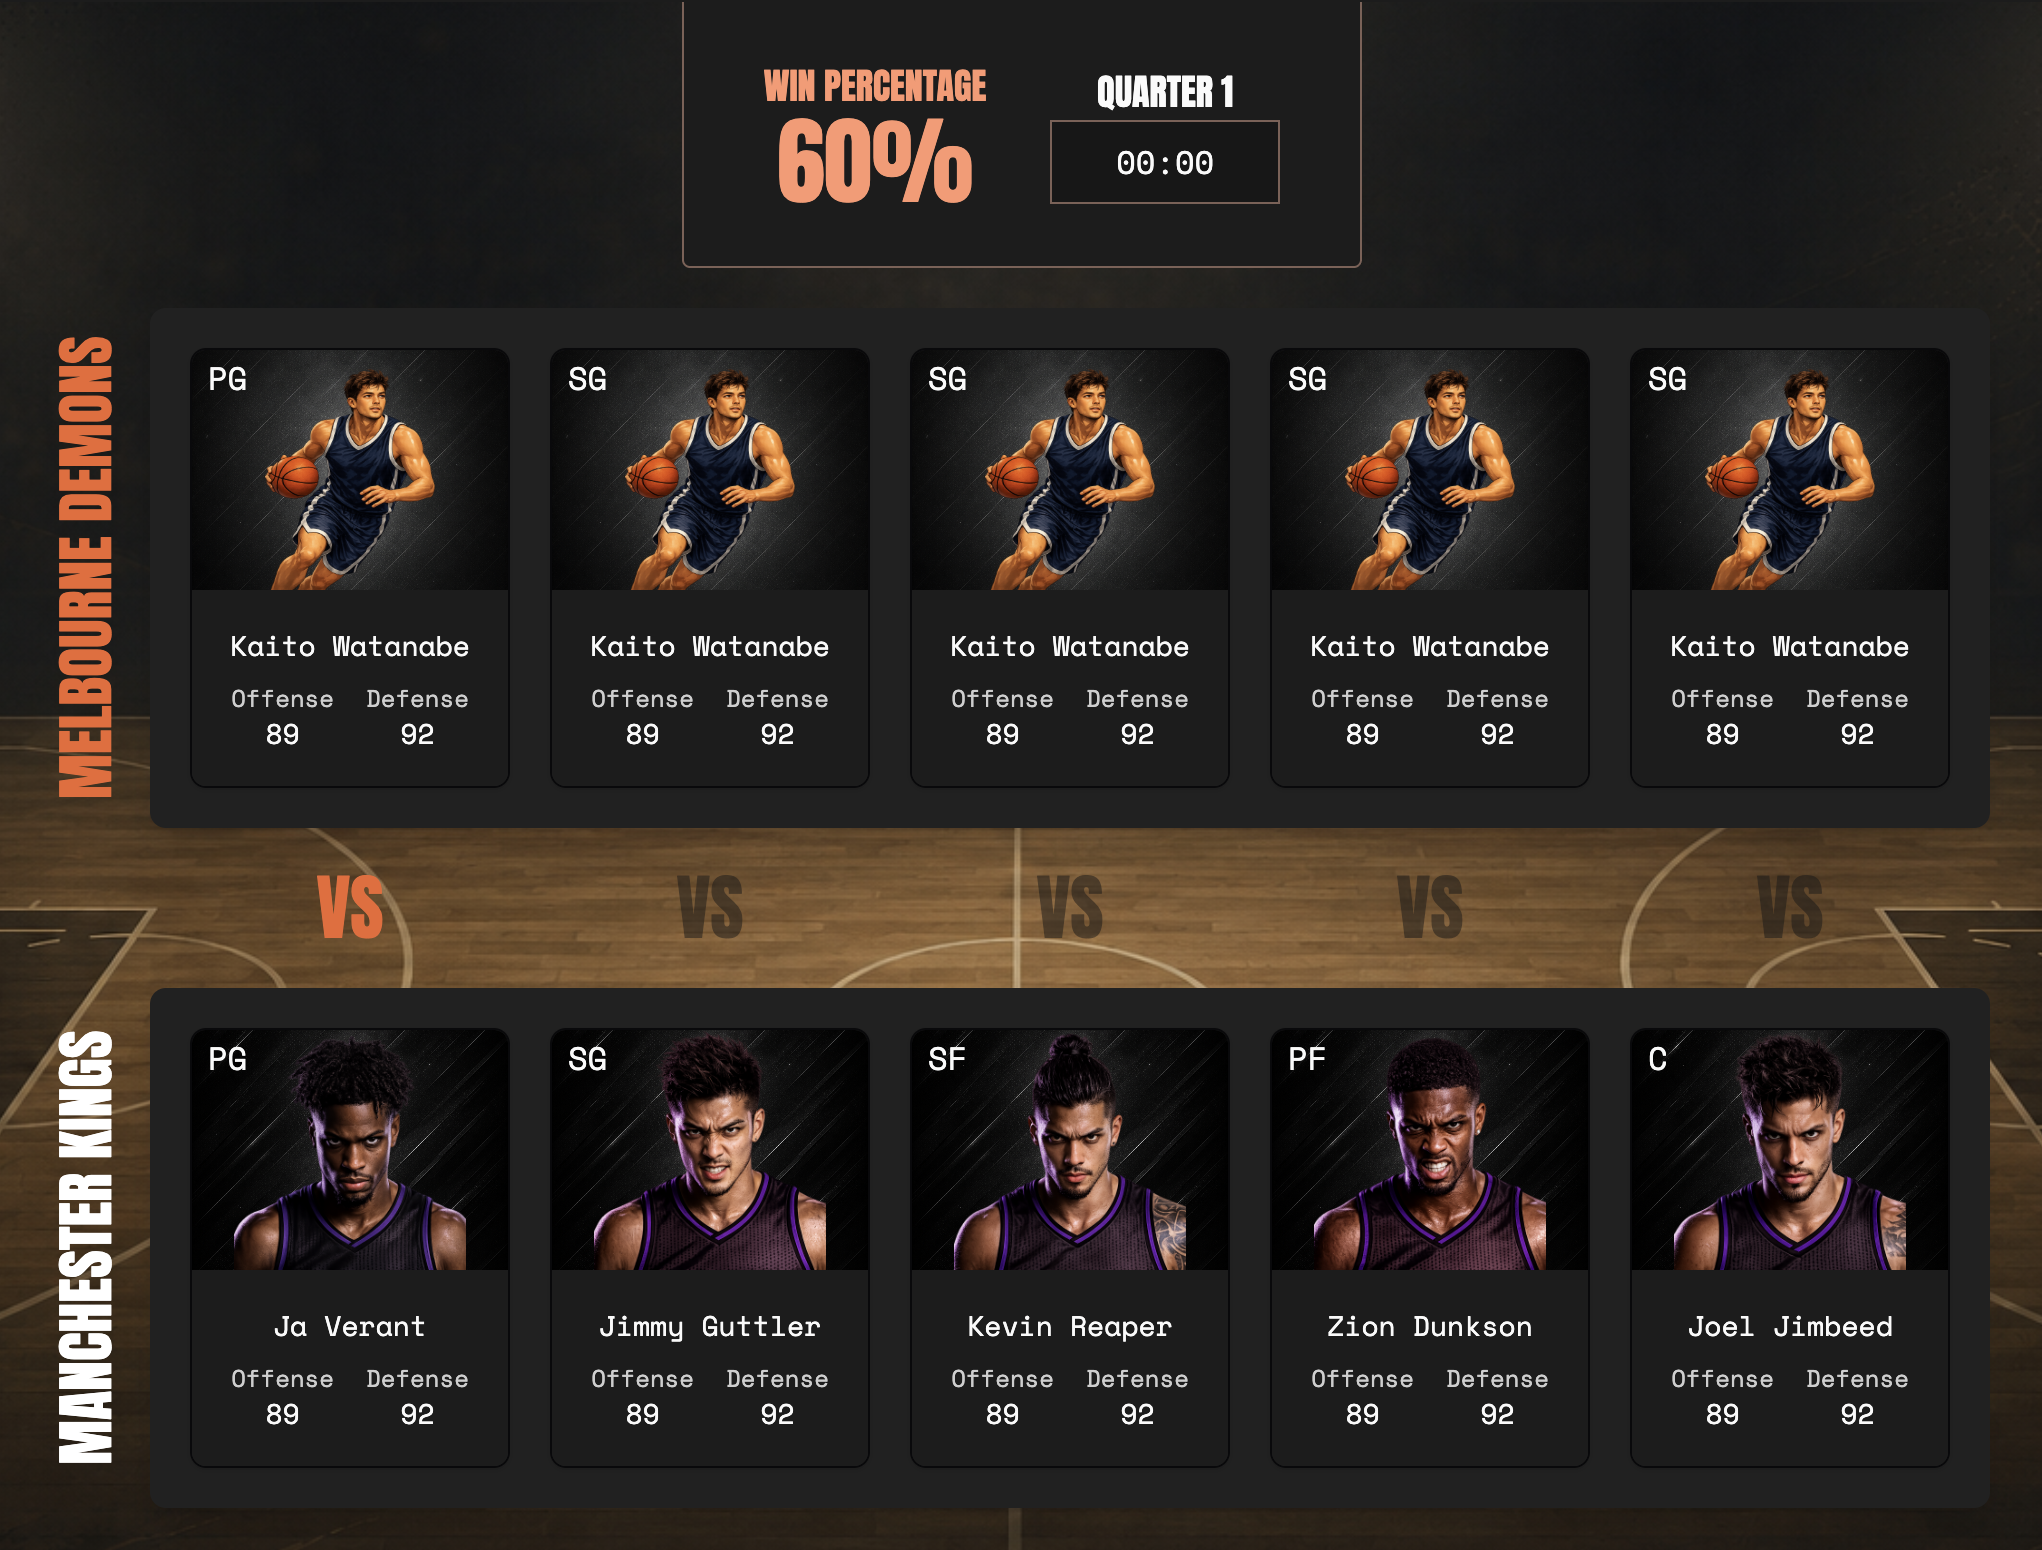
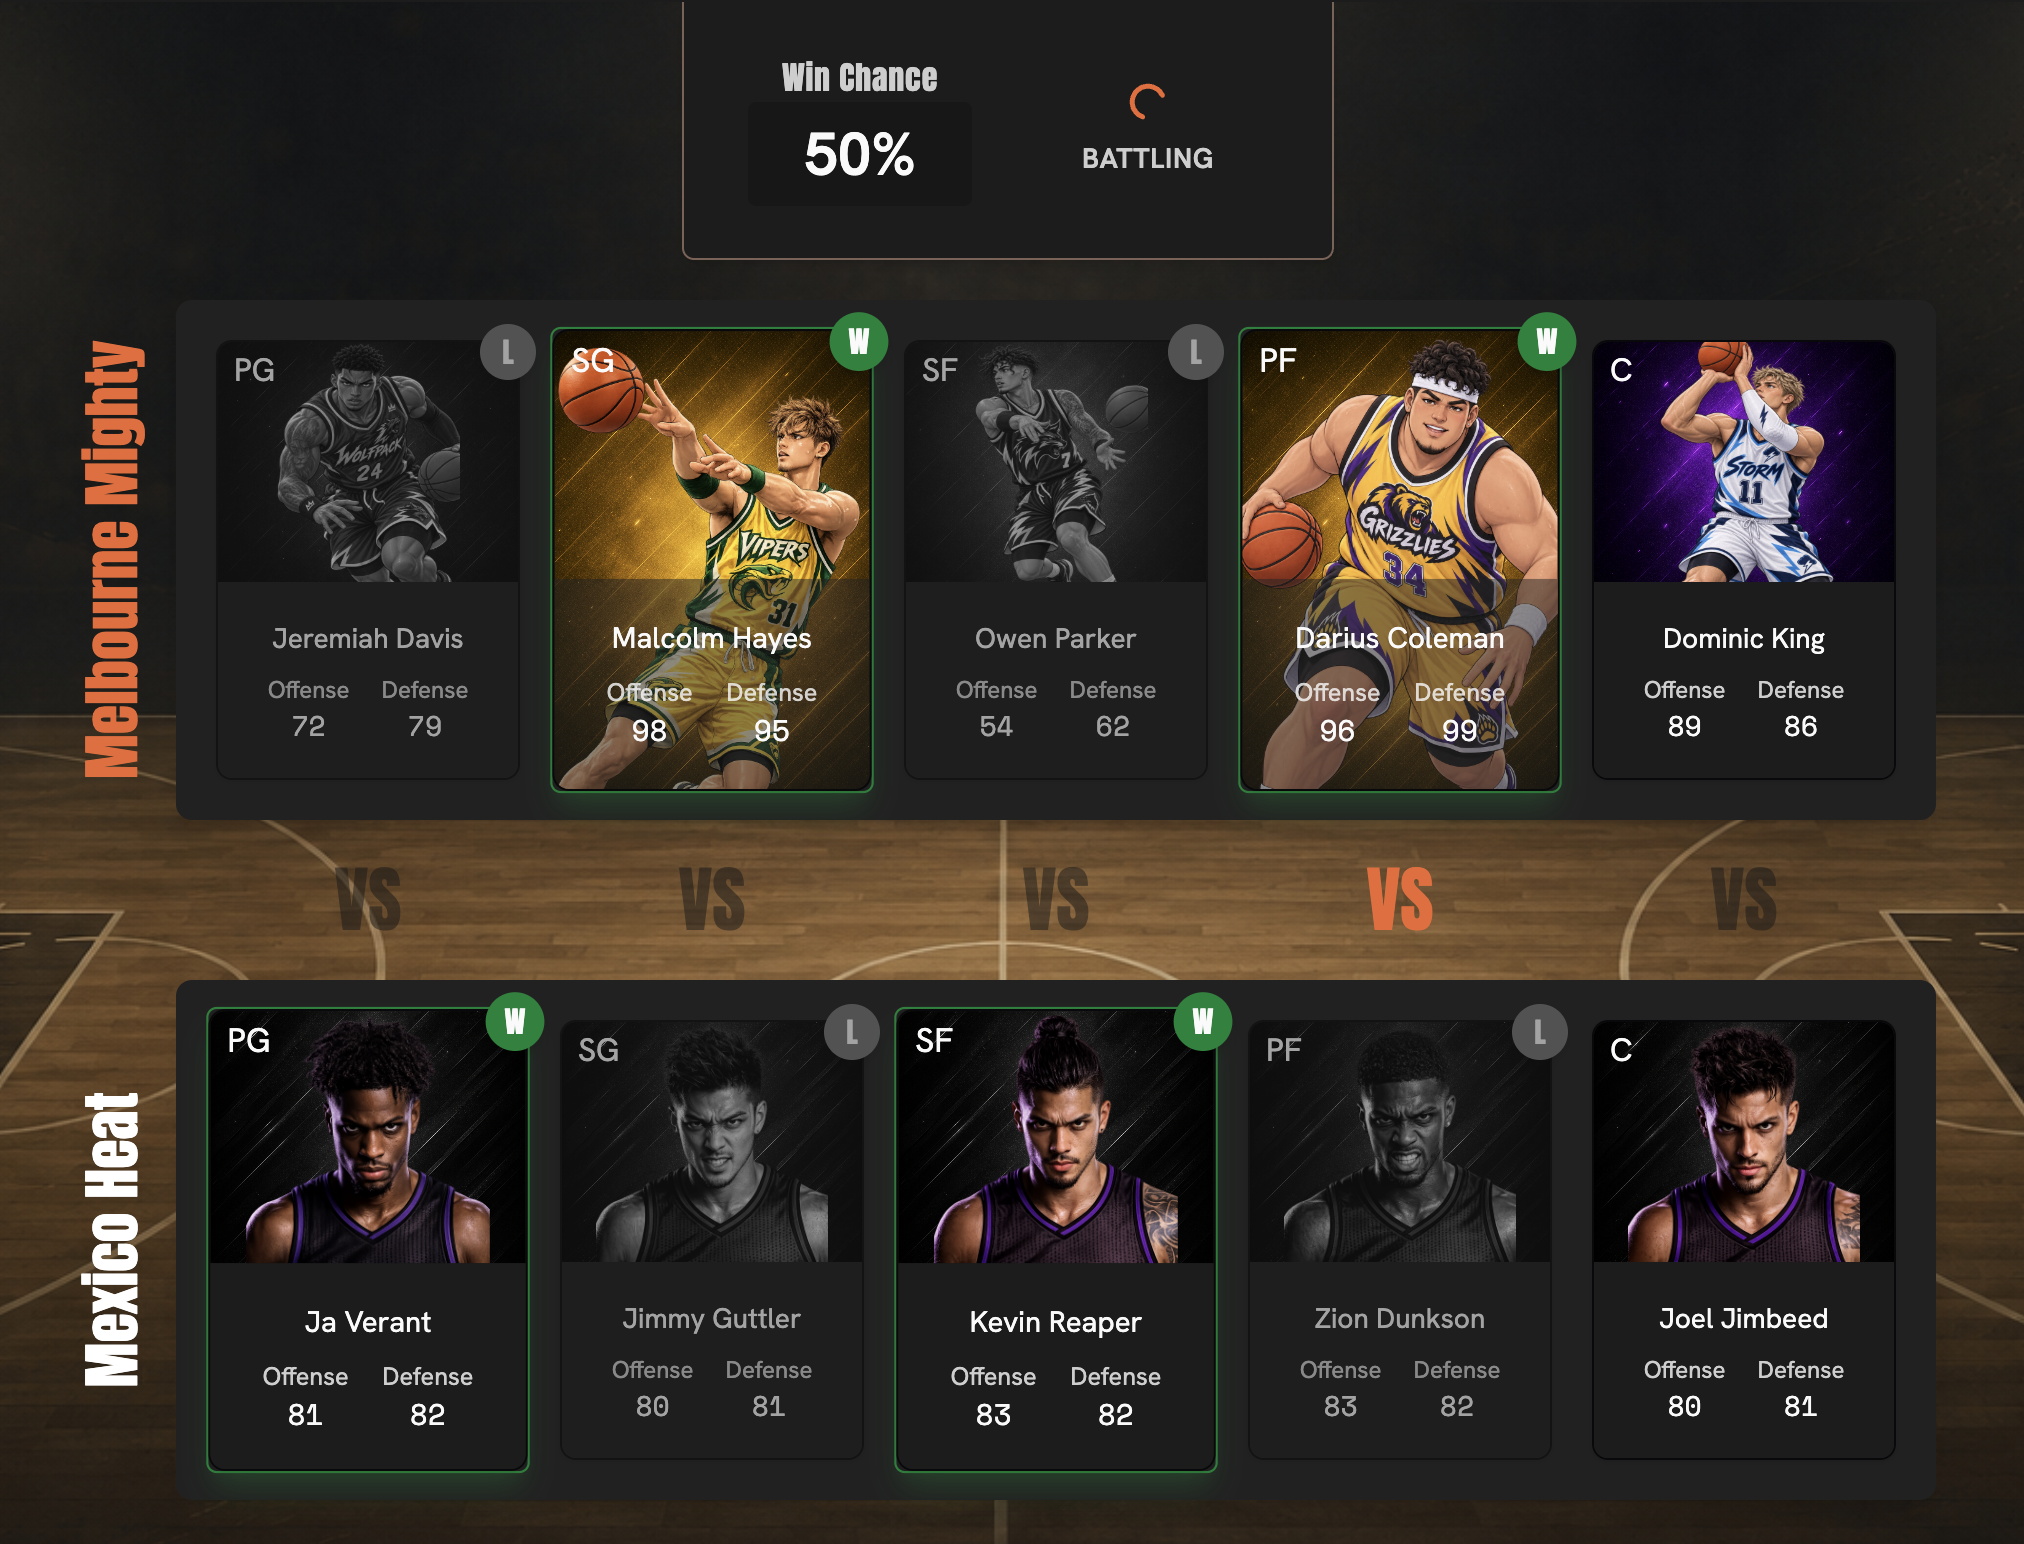
add temporary admin page + fix player card sizing + re-position filter buttons

Changed region(s): [[0.0, 0.1865, 1.0, 0.9637], [0.3735, 0.0311, 0.498, 0.1554], [0.5292, 0.0311, 0.6225, 0.1244]]

diff --git a/client/src/pages/admin/AddPlayerPage.tsx b/client/src/pages/admin/AddPlayerPage.tsx
@@ -1,0 +1,95 @@
+import { useState } from "react";
+import Button from "../../components/common/button/Button";
+
+function AddPlayerPage() {
+  const [isSubmitting, setIsSubmitting] = useState(false);
+
+  const [formData, setFormData] = useState({
+    fullName: "",
+    position: "",
+    rarity: "",
+    offensiveRating: "",
+    defensiveRating: "",
+    overallRating: "",
+    image: "",
+    errors: {},
+  });
+
+  function handleChange(e) {
+    setFormData({ ...formData, [e.target.name]: e.target.value });
+  }
+
+  function handleSubmit(e) {
+    e.preventDefault();
+    setIsSubmitting(true);
+  }
+
+  // function resetForm() {
+  //   setFormData({
+  //     fullName: user.name || "",
+  //     teamName: user.teamName || "",
+  //     email: user.email || "",
+  //   });
+  // }
+
+  return (
+    <div>
+      <form onSubmit={handleSubmit} className="flex flex-col gap-4">
+        <div className="flex flex-col gap-1">
+          <p className="font-semibold">Full Name</p>
+          <input
+            name="fullName"
+            value={formData.fullName}
+            onChange={handleChange}
+            className="input focus-within:outline-none focus-within:ring-0"
+          />
+        </div>
+
+        <div className="flex flex-col gap-1">
+          <p className="font-semibold">Team Name</p>
+          <input
+            name="teamName"
+            value={formData.teamName}
+            onChange={handleChange}
+            className="input focus-within:outline-none focus-within:ring-0"
+          />
+        </div>
+
+        <div className="flex flex-col gap-1">
+          <p className="font-semibold">E-mail</p>
+          <input
+            name="email"
+            type="email"
+            value={formData.email}
+            onChange={handleChange}
+            className="input focus-within:outline-none focus-within:ring-0"
+          />
+        </div>
+
+        <div className="flex gap-3">
+          <Button
+            bgColor="primary"
+            textColor="black"
+            size="small"
+            type="submit"
+            className="p-4"
+          >
+            Save
+          </Button>
+
+          <Button
+            className="bg-neutral-700 p-4"
+            size="small"
+            onClick={() => {
+              // resetForm();
+              setIsSubmitting(false);
+            }}
+          >
+            Cancel
+          </Button>
+        </div>
+      </form>
+    </div>
+  );
+}
+export default AddPlayerPage;

diff --git a/client/src/components/common/playerCard/RegularCardXS.tsx b/client/src/components/common/playerCard/RegularCardXS.tsx
@@ -163,14 +163,14 @@ function RegularCardXS({
     <div className="w-30 h-40 lg:w-38 lg:h-55 font-base border border-border-base rounded-lg shadow-sm overflow-hidden">
       {/* top half */}
       <div
-        className="relative h-20 lg:h-30 bg-base-300 bg-cover bg-center"
+        className="relative h-22 lg:h-33 bg-base-300 bg-cover bg-center"
         style={{
           backgroundImage: `url(${isEnemy ? playerRarity : playerRarityConversion})`,
         }}
       >
         <img
           src={isEnemy ? playerImage : playerImageConversion}
-          className={`${isEnemy && "w-20! lg:w-29!"} w-15 h-20 lg:w-23 lg:h-30 mx-auto`}
+          className={`${isEnemy && "w-22! lg:w-30!"} w-16 h-22 lg:w-23 lg:h-33 mx-auto`}
         />
         <p className="absolute top-1 lg:top-0.5 left-2 text-xs lg:text-base">
           {playerPosition}
@@ -178,7 +178,7 @@ function RegularCardXS({
       </div>
 
       {/* bottom half */}
-      <div className="flex flex-col items-center justify-center gap-1 lg:gap-2 h-20 lg:h-25 bg-base-200 text-center">
+      <div className="flex flex-col items-center justify-center gap-1 lg:gap-2 h-18 lg:h-22 bg-base-200 text-center">
         <p className="text-xs lg:text-sm">{playerName}</p>
 
         <div className="flex gap-3 lg:gap-4">

diff --git a/client/src/components/common/pack/Pack.tsx b/client/src/components/common/pack/Pack.tsx
@@ -13,7 +13,7 @@ type Props = {
 function Pack({ packBg, title, content, chances, price, onBuy }: Props) {
   return (
     <div
-      className="flex flex-col justify-between gap-8 bg-neutral-950 rounded-lg shadow-md text-neutral-100 py-7 px-8 sm:px-10 overflow-hidden bg-cover bg-center w-43 sm:w-58 h-80"
+      className="flex flex-col justify-between gap-8 bg-neutral-950 rounded-lg shadow-md text-neutral-100 py-7 px-5 lg:px-8 overflow-hidden bg-cover bg-center w-38 sm:w-58 h-80"
       style={{ backgroundImage: `url(${packBg})` }}
     >
       <div className="text-start">
@@ -30,7 +30,7 @@ function Pack({ packBg, title, content, chances, price, onBuy }: Props) {
         <Button
           bgColor="primary"
           textColor="black"
-          className="btn-xs sm:btn-sm"
+          className="btn-sm"
           onClick={onBuy}
         >
           <div className="flex items-center gap-1">

diff --git a/client/src/App.tsx b/client/src/App.tsx
@@ -20,6 +20,8 @@ import AccountPage from "./pages/app/AccountPage.js";
 
 import BattleLayout from "./components/layout/battle/BattleLayout";
 import BattlePage from "./pages/battle/BattlePage";
+import AdminPage from "./pages/admin/AdminPage.js";
+import AddPlayerPage from "./pages/admin/AddPlayerPage.js";
 
 function App() {
   return (
@@ -44,6 +46,9 @@ function App() {
                   <Route path="/packs" element={<PacksPage />} />
                   <Route path="/how-to-play" element={<HowToPlayPage />} />
                   <Route path="/account" element={<AccountPage />} />
+                  <Route path="/admin" element={<AdminPage />}>
+                    <Route path="add-player" element={<AddPlayerPage />} />
+                  </Route>
                 </Route>
 
                 <Route element={<BattleLayout />}>

diff --git a/client/src/components/features/packs-page/GallerySection.tsx b/client/src/components/features/packs-page/GallerySection.tsx
@@ -35,11 +35,12 @@ function GallerySection({ players, loading, errorMsg }) {
 
   return (
     <section>
-      <div className="flex justify-between items-end">
+      <div className="flex flex-col sm:flex-row justify-between items-start sm:items-end">
         <SectionHeading heading="ALL CARDS" Icon={VscCollection} />
 
-        <div className="flex flex-col sm:flex-row items-center gap-2 mb-3">
+        <div className="flex items-center gap-2 mb-3">
           <SearchForm value={search} onSearch={setSearch} />
+
           <div className="flex">
             <DropdownBtn
               buttonText="Rating"

diff --git a/client/src/components/features/home-page/CollectionSection.tsx b/client/src/components/features/home-page/CollectionSection.tsx
@@ -51,10 +51,10 @@ function CollectionSection({ user, loading, errorMsg }) {
 
   return (
     <section className="mt-6">
-      <div className="flex justify-between items-end">
+      <div className="flex flex-col sm:flex-row justify-between items-start sm:items-end">
         <SectionHeading heading="MY COLLECTION" Icon={TbCards} />
 
-        <div className="flex flex-col sm:flex-row items-center gap-2 mb-3">
+        <div className="flex items-center gap-2 mb-3">
           <SearchForm value={search} onSearch={setSearch} />
           <div className="flex">
             <DropdownBtn

diff --git a/client/src/components/common/playerCard/FullArtCardXS.tsx b/client/src/components/common/playerCard/FullArtCardXS.tsx
@@ -170,7 +170,7 @@ function FullArtCardXS({
       </p>
 
       {/* bottom half */}
-      <div className="absolute inset-x-0 bottom-0 flex flex-col items-center justify-center text-center gap-2 h-20 lg:h-25 bg-base-300/50">
+      <div className="absolute inset-x-0 bottom-0 flex flex-col items-center justify-center text-center gap-2 h-17.5 lg:h-21.5 bg-base-300/50">
         <p className="text-xs lg:text-sm">{playerName}</p>
 
         <div className="flex gap-3 lg:gap-4">

diff --git a/client/src/components/common/button/DropdownBtn.tsx b/client/src/components/common/button/DropdownBtn.tsx
@@ -10,7 +10,7 @@ function DropdownBtn({ buttonText, dropdownItems, onClick }: Props) {
       <button
         tabIndex={0}
         role="button"
-        className="btn btn-xs sm:btn-sm btn-outline btn-primary m-1"
+        className="btn btn-sm btn-outline btn-primary m-1"
       >
         {buttonText}
       </button>

diff --git a/client/src/pages/admin/AdminPage.tsx b/client/src/pages/admin/AdminPage.tsx
@@ -1,0 +1,14 @@
+import { Link, Outlet } from "react-router-dom";
+
+function AdminPage() {
+  return (
+    <main>
+      <aside>
+        <Link to="/admin/add-card">Add Card</Link>
+      </aside>
+
+      <Outlet />
+    </main>
+  );
+}
+export default AdminPage;
